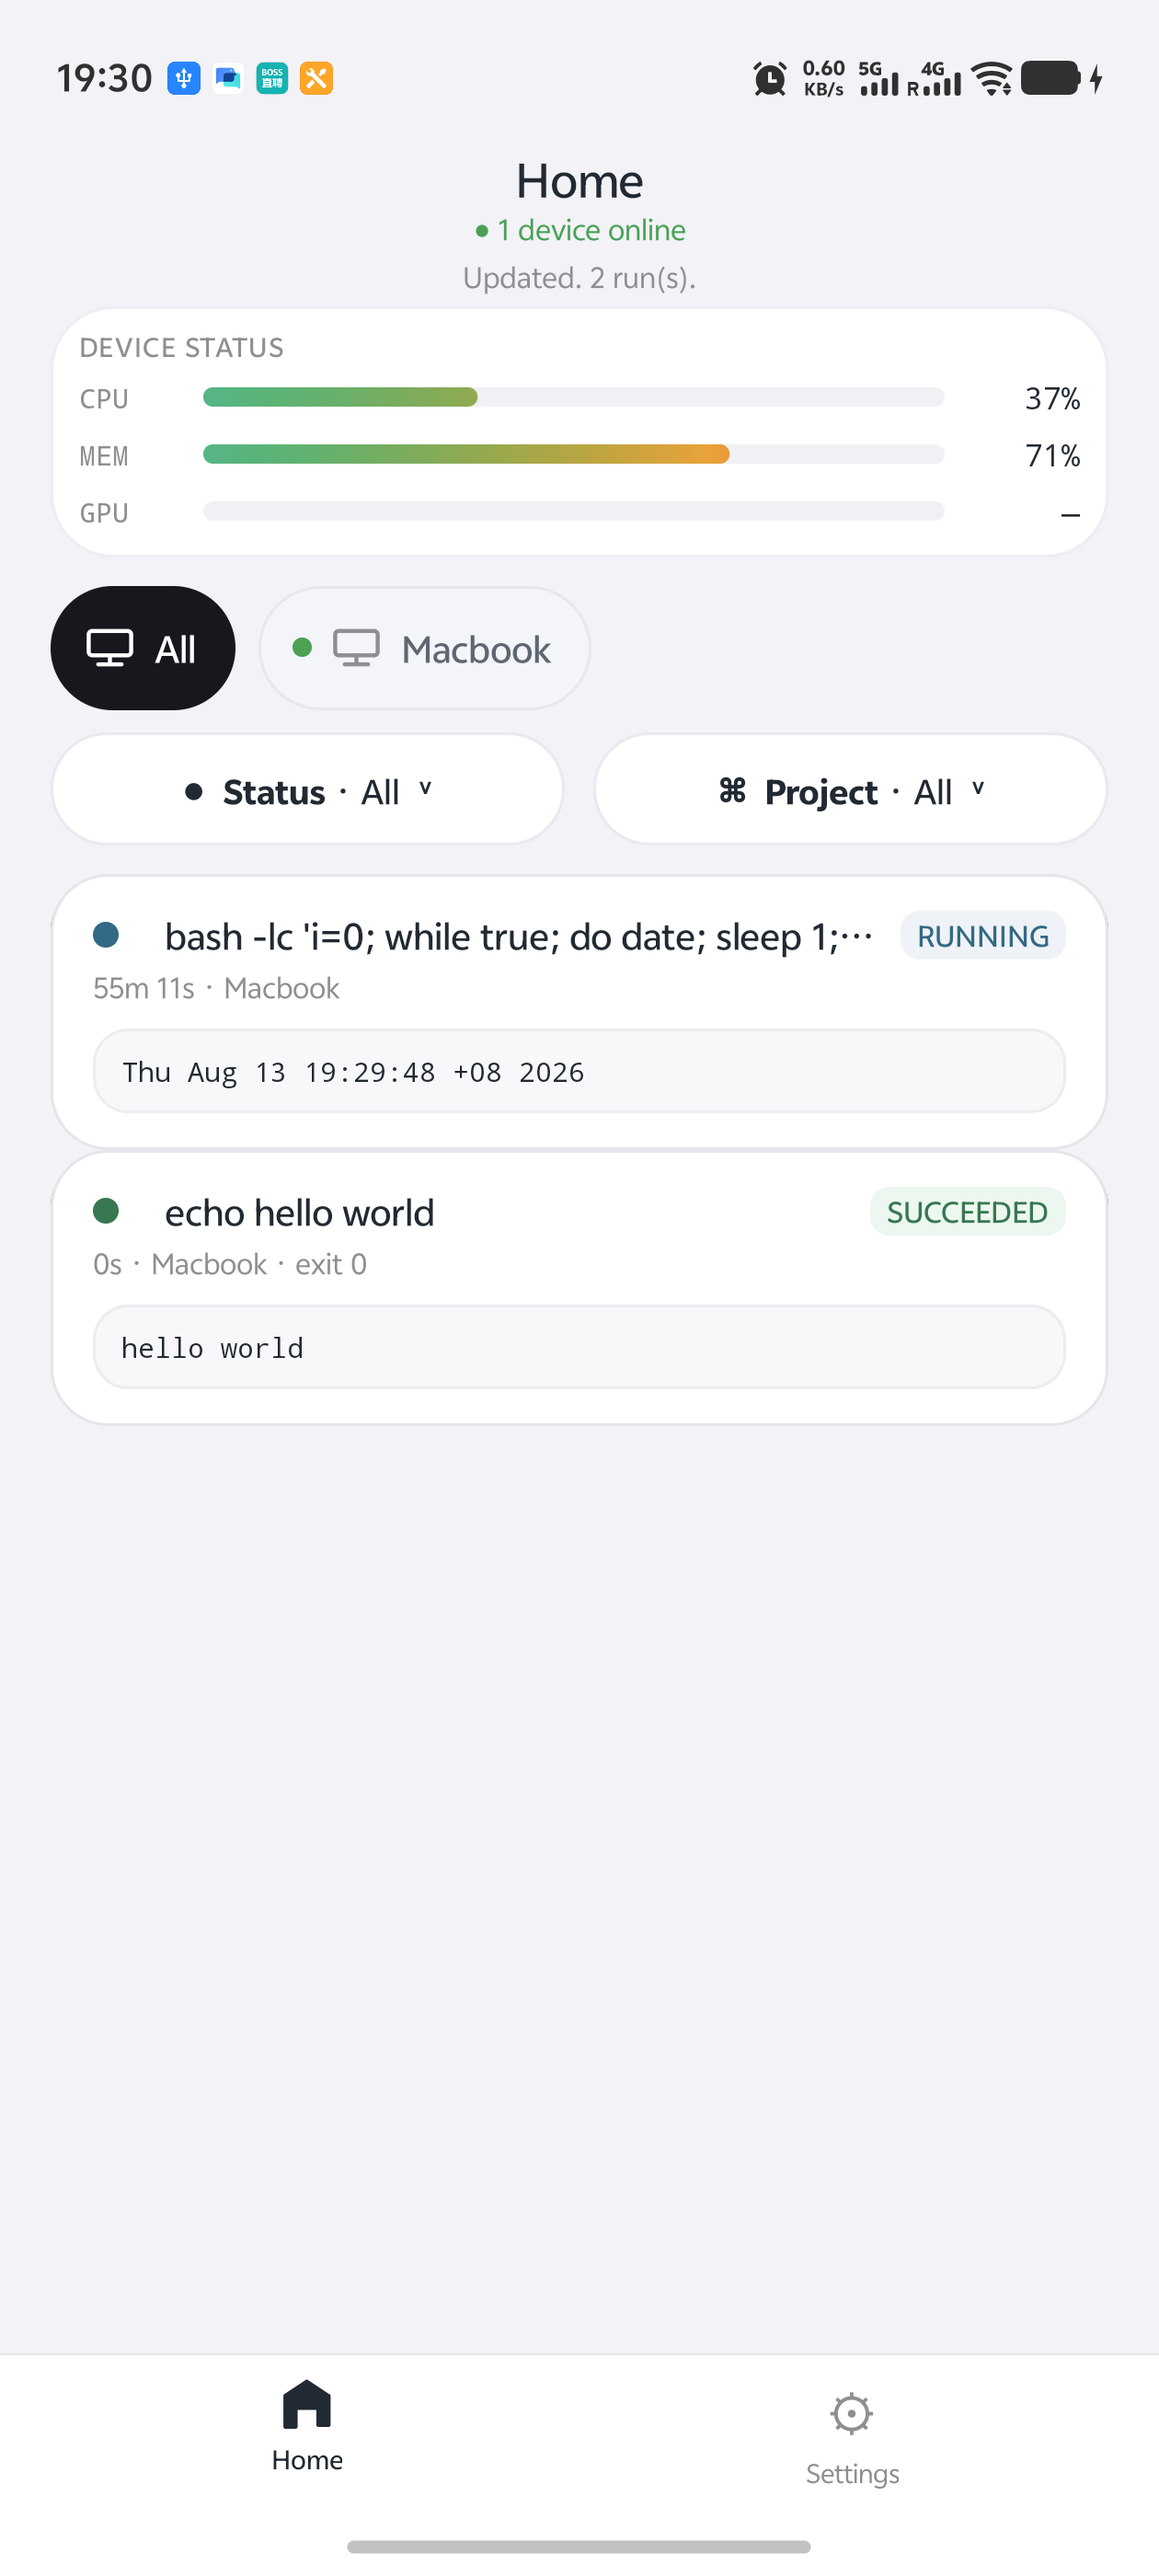
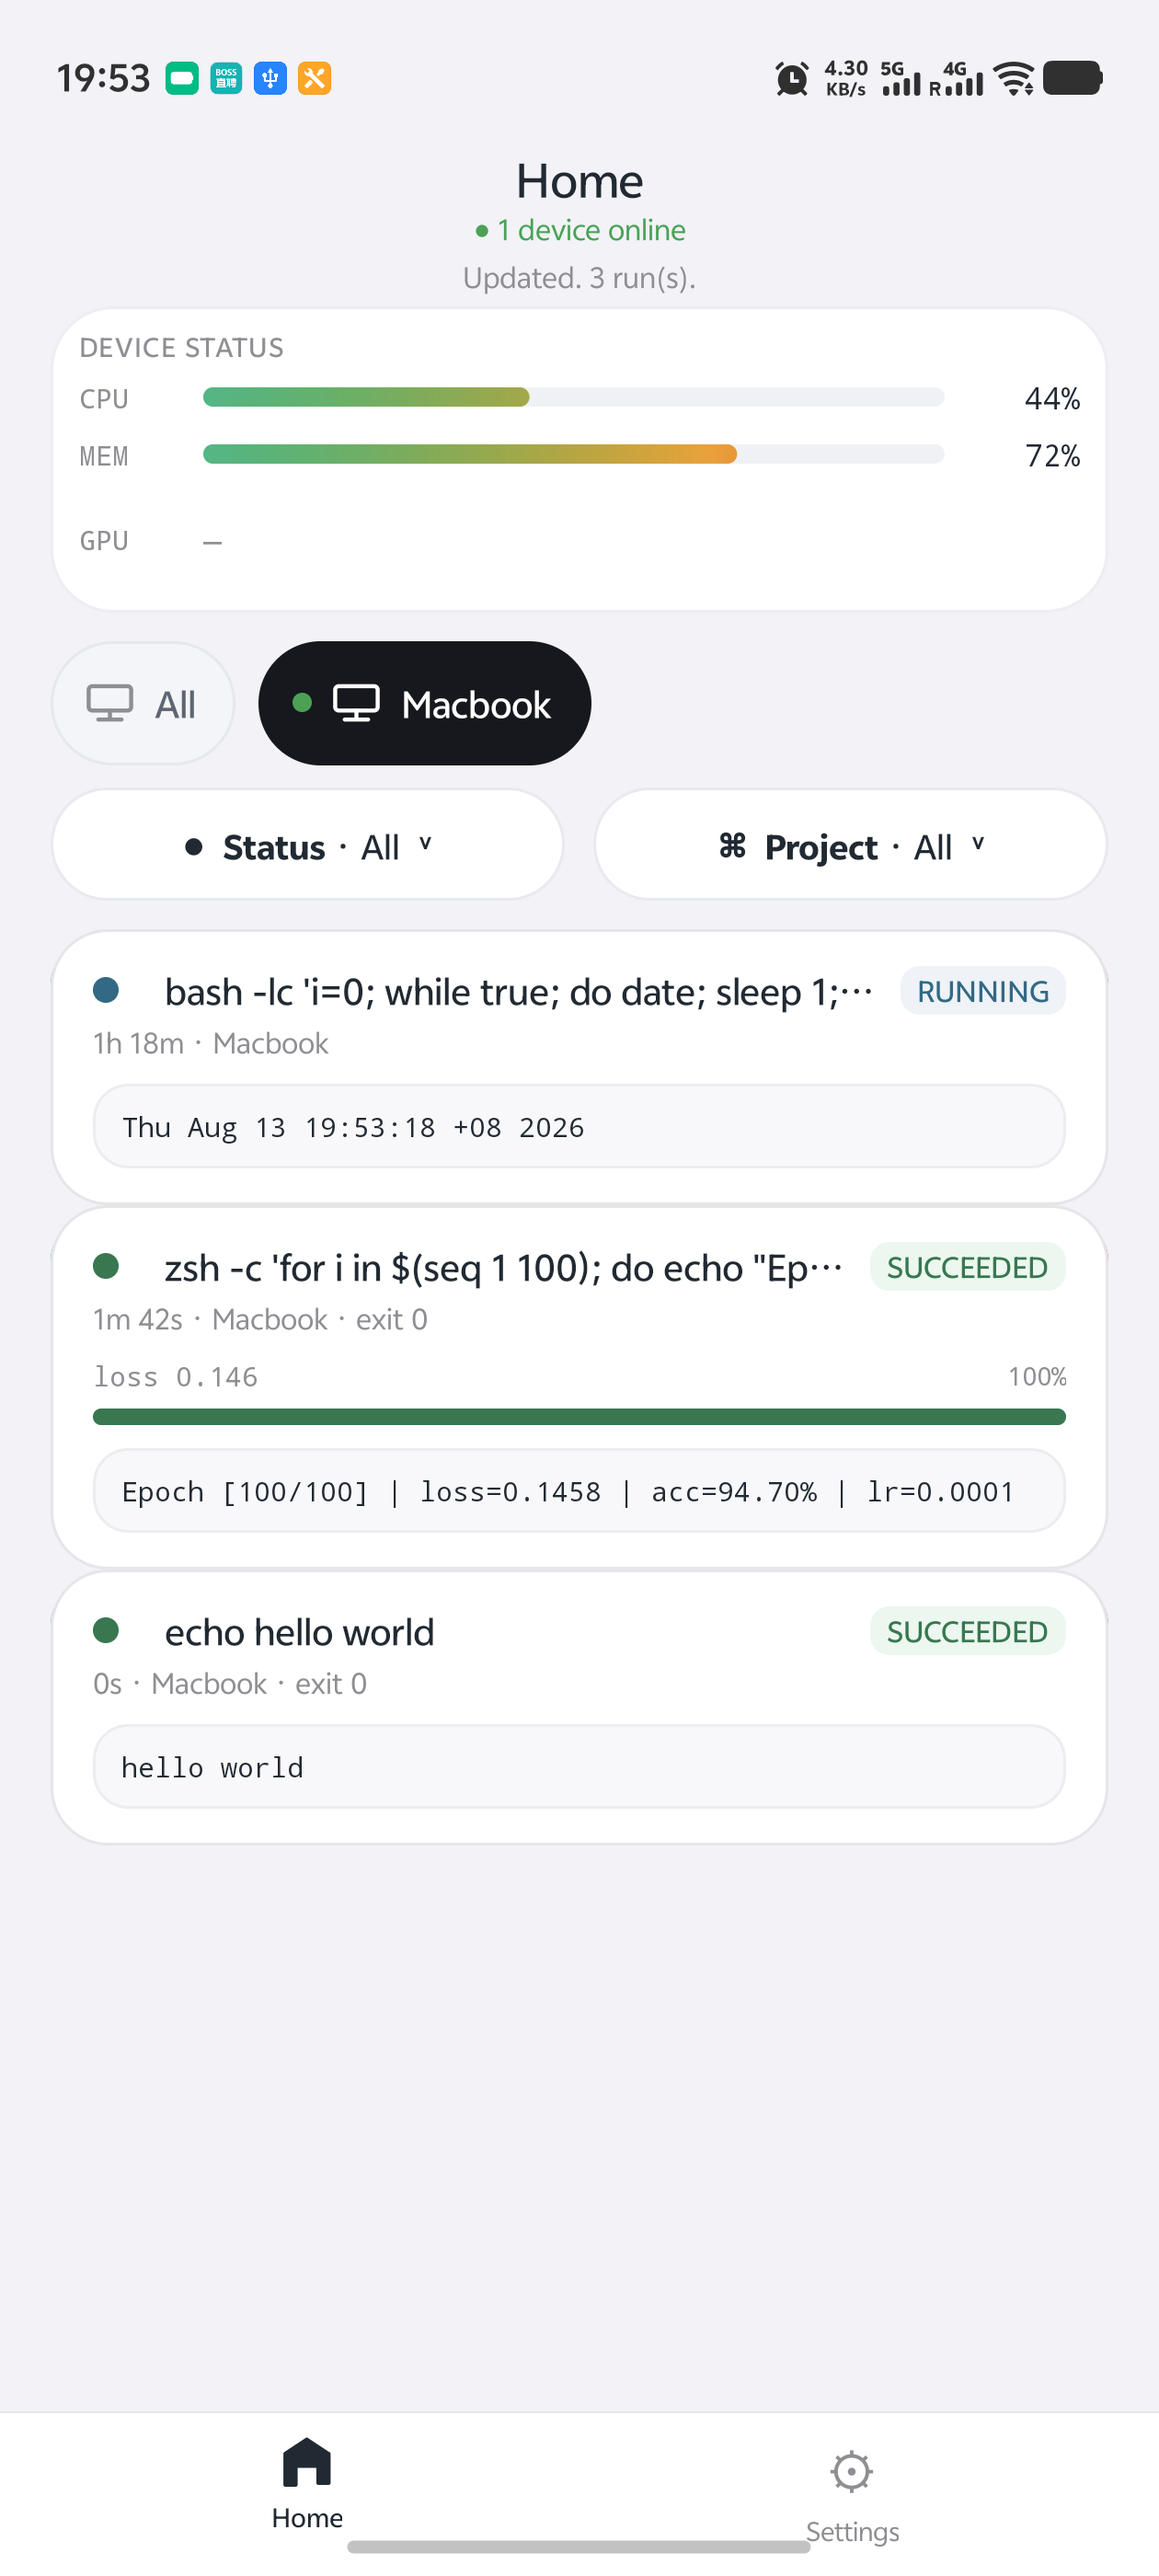
release: v1.0.1

diff --git a/src/haoleme/__init__.py b/src/haoleme/__init__.py
@@ -1,1 +1,1 @@
-__version__ = "0.5.3"
+__version__ = "0.5.4"

diff --git a/README.md b/README.md
@@ -16,7 +16,7 @@
 <p align="center">
   <a href="https://haolemeapp.github.io/">Website</a>
   ·
-  <a href="https://github.com/HaolemeApp/Haoleme/releases/download/v1.0.0/Haoleme-1.0.0.apk">Download APK</a>
+  <a href="https://github.com/HaolemeApp/Haoleme/releases/download/v1.0.1/Haoleme-1.0.1.apk">Download APK</a>
   ·
   <a href="#quick-start">Quick Start</a>
   ·
@@ -24,7 +24,7 @@
 </p>
 
 <p align="center">
-  <a href="https://github.com/HaolemeApp/Haoleme/releases/download/v1.0.0/Haoleme-1.0.0.apk"><img src="https://img.shields.io/badge/APK-v1.0.0-3DDC84?logo=android&logoColor=white" alt="Android APK 1.0.0"></a>
+  <a href="https://github.com/HaolemeApp/Haoleme/releases/download/v1.0.1/Haoleme-1.0.1.apk"><img src="https://img.shields.io/badge/APK-v1.0.1-3DDC84?logo=android&logoColor=white" alt="Android APK 1.0.1"></a>
   <a href="https://pypi.org/project/haoleme/"><img src="https://img.shields.io/pypi/v/haoleme?label=CLI&logo=pypi&logoColor=white&color=F0B429" alt="Haoleme CLI on PyPI"></a>
   <a href="https://github.com/HaolemeApp/Haoleme/issues"><img src="https://img.shields.io/github/issues-search/HaolemeApp/Haoleme?query=is%3Aissue&label=issues&logo=github&color=E85D75" alt="Total GitHub Issues"></a>
   <a href="LICENSE"><img src="https://img.shields.io/badge/license-AGPL--3.0--or--later-8B5CF6" alt="License: AGPL-3.0-or-later"></a>
@@ -35,12 +35,12 @@
 </p>
 
 > [!NOTE]
-> **Haoleme v1.0.0 is now available as the first stable release.**
+> **Haoleme v1.0.1 is a stable release.** Model-training progress monitoring is available as a feature in development, so its recognition and presentation may continue to evolve.
 > [View the release](https://github.com/HaolemeApp/Haoleme/releases/latest) or install it directly over an existing version.
 
 ## Why Haoleme
 
-Haoleme is a local-first command monitor for work that should keep running while you do something else. Prefix a command with `hao`, then use the Android app to follow live output, switch between machines, receive completion notifications, or stop a task remotely.
+Haoleme is a local-first command monitor for work that should keep running while you do something else. Prefix a command with `hao`, then use the Android app to follow live output, switch between machines, receive completion notifications, or stop a task remotely. For supported model-training output, run cards can also surface the latest epoch, loss, elapsed time, and a visual progress bar.
 
 It is built for model training, evaluations, remote scripts, batch jobs, crawlers, builds, and long SSH sessions. Commands and console output are end-to-end encrypted before they reach Haoleme Cloud or a self-hosted Relay.
 
@@ -57,7 +57,7 @@ It is built for model training, evaluations, remote scripts, batch jobs, crawler
 
 ### 1. Download the Android app
 
-[Download Haoleme v1.0.0](https://github.com/HaolemeApp/Haoleme/releases/download/v1.0.0/Haoleme-1.0.0.apk)
+[Download Haoleme v1.0.1](https://github.com/HaolemeApp/Haoleme/releases/download/v1.0.1/Haoleme-1.0.1.apk)
 
 ### 2. Install the CLI
 
@@ -94,6 +94,7 @@ The run, live console output, and final status will appear in the app automatica
 ## Features
 
 - **Live runs:** running, succeeded, and failed states with searchable console output and local history.
+- **Training progress (in development):** detect common epoch, loss, and tqdm output and show progress directly on run cards. Recognition and presentation may change as this feature evolves.
 - **Phone notifications:** know when a command completes or fails without watching SSH.
 - **Multiple machines:** switch between computers and servers, rename devices, and see online status.
 - **Projects and metrics:** group related runs and inspect CPU, memory, and GPU utilization.

diff --git a/README_CN.md b/README_CN.md
@@ -16,7 +16,7 @@
 <p align="center">
   <a href="https://haolemeapp.github.io/">官网</a>
   ·
-  <a href="https://github.com/HaolemeApp/Haoleme/releases/download/v1.0.0/Haoleme-1.0.0.apk">下载 APK</a>
+  <a href="https://github.com/HaolemeApp/Haoleme/releases/download/v1.0.1/Haoleme-1.0.1.apk">下载 APK</a>
   ·
   <a href="#快速开始">快速开始</a>
   ·
@@ -24,7 +24,7 @@
 </p>
 
 <p align="center">
-  <a href="https://github.com/HaolemeApp/Haoleme/releases/download/v1.0.0/Haoleme-1.0.0.apk"><img src="https://img.shields.io/badge/APK-v1.0.0-3DDC84?logo=android&logoColor=white" alt="Android APK 1.0.0"></a>
+  <a href="https://github.com/HaolemeApp/Haoleme/releases/download/v1.0.1/Haoleme-1.0.1.apk"><img src="https://img.shields.io/badge/APK-v1.0.1-3DDC84?logo=android&logoColor=white" alt="Android APK 1.0.1"></a>
   <a href="https://pypi.org/project/haoleme/"><img src="https://img.shields.io/pypi/v/haoleme?label=CLI&logo=pypi&logoColor=white&color=F0B429" alt="PyPI 上的 Haoleme CLI"></a>
   <a href="https://github.com/HaolemeApp/Haoleme/issues"><img src="https://img.shields.io/github/issues-search/HaolemeApp/Haoleme?query=is%3Aissue&label=issues&logo=github&color=E85D75" alt="GitHub Issue 总数"></a>
   <a href="LICENSE"><img src="https://img.shields.io/badge/license-AGPL--3.0--or--later-8B5CF6" alt="许可证：AGPL-3.0-or-later"></a>
@@ -35,12 +35,12 @@
 </p>
 
 > [!NOTE]
-> **好了么 v1.0.0 已正式上线，这是首个稳定版本。**
+> **好了么 v1.0.1 是稳定版本。** 模型训练进程监控目前属于开发中功能，识别规则和展示方式后续可能继续调整。
 > [查看最新 Release](https://github.com/HaolemeApp/Haoleme/releases/latest)，已有版本可以直接覆盖安装升级。
 
 ## 为什么使用好了么
 
-好了么是一个本地优先的命令监控工具，适合那些“应该继续运行，但不值得一直守在终端前”的任务。在原命令前加上 `hao`，就可以在 Android App 中查看实时输出、切换设备、接收结束通知，或远程停止任务。
+好了么是一个本地优先的命令监控工具，适合那些“应该继续运行，但不值得一直守在终端前”的任务。在原命令前加上 `hao`，就可以在 Android App 中查看实时输出、切换设备、接收结束通知，或远程停止任务。对于能够识别的模型训练输出，运行卡片还会显示最新 Epoch、loss、耗时和可视化进度条。
 
 它适合模型训练、完整评测、远程脚本、批处理、爬虫、构建和长时间 SSH 会话。命令与控制台输出会先进行端到端加密，再发送到好了么 Cloud 或自建 Relay。
 
@@ -57,7 +57,7 @@
 
 ### 1. 下载 Android App
 
-[下载好了么 v1.0.0](https://github.com/HaolemeApp/Haoleme/releases/download/v1.0.0/Haoleme-1.0.0.apk)
+[下载好了么 v1.0.1](https://github.com/HaolemeApp/Haoleme/releases/download/v1.0.1/Haoleme-1.0.1.apk)
 
 ### 2. 安装 CLI
 
@@ -94,6 +94,7 @@ hao bash script.sh
 ## 功能
 
 - **实时运行：**查看 running、succeeded 和 failed 状态，搜索控制台输出并在手机本地保存历史。
+- **训练进度（开发中）：**识别常见的 Epoch、loss 和 tqdm 输出，直接在运行卡片显示进度；随着功能完善，识别规则和界面可能继续变化。
 - **手机通知：**命令完成或失败后收到通知，不必一直守着 SSH。
 - **多台设备：**在电脑和服务器之间切换，重命名设备并查看在线状态。
 - **项目与指标：**按项目整理运行记录，查看 CPU、内存和 GPU 利用率。
